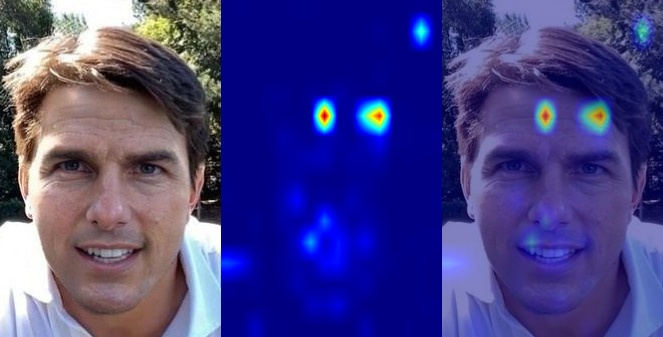
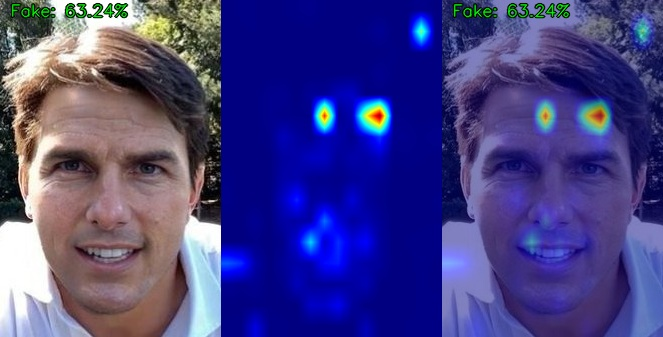
forAda visulaize update

diff --git a/visualize_attention.py b/visualize_attention.py
@@ -123,6 +123,26 @@ def main():
         alpha = 0.5
         overlay = cv2.addWeighted(img_bgr, alpha, heatmap_colored, 1 - alpha, 0)
         
+        # Add probability text
+        if 'prob' in pred_dict:
+            prob = pred_dict['prob'].item() * 100
+            text = f"Fake: {prob:.2f}%"
+            
+            # Dynamic font scale based on image width
+            font_scale = max(0.5, img_w / 400.0)
+            thickness_bg = max(2, int(font_scale * 4))
+            thickness_fg = max(1, int(font_scale * 2))
+            pos = (10, int(30 * font_scale))
+            font = cv2.FONT_HERSHEY_SIMPLEX
+            
+            # Draw on overlay image
+            cv2.putText(overlay, text, pos, font, font_scale, (0, 0, 0), thickness_bg, cv2.LINE_AA)
+            cv2.putText(overlay, text, pos, font, font_scale, (0, 255, 0), thickness_fg, cv2.LINE_AA)
+            
+            # Draw on original image
+            cv2.putText(img_bgr, text, pos, font, font_scale, (0, 0, 0), thickness_bg, cv2.LINE_AA)
+            cv2.putText(img_bgr, text, pos, font, font_scale, (0, 255, 0), thickness_fg, cv2.LINE_AA)
+        
         # Construct save paths
         base_name = os.path.basename(img_path)
         name, ext = os.path.splitext(base_name)
